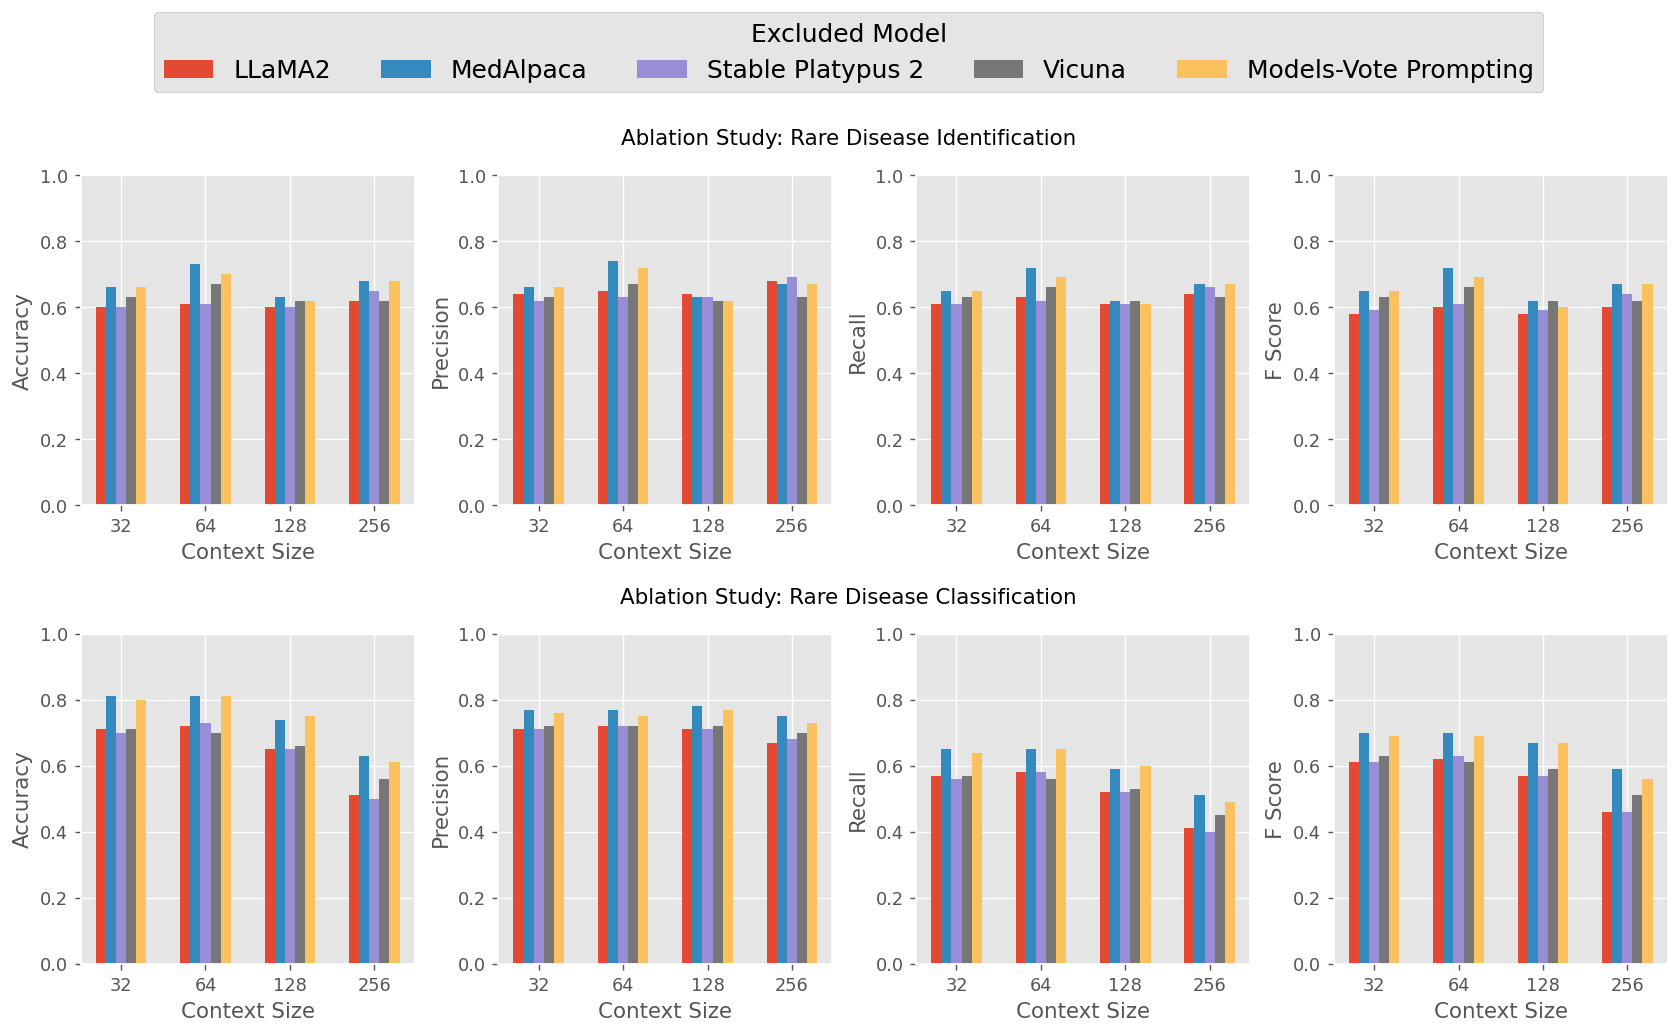
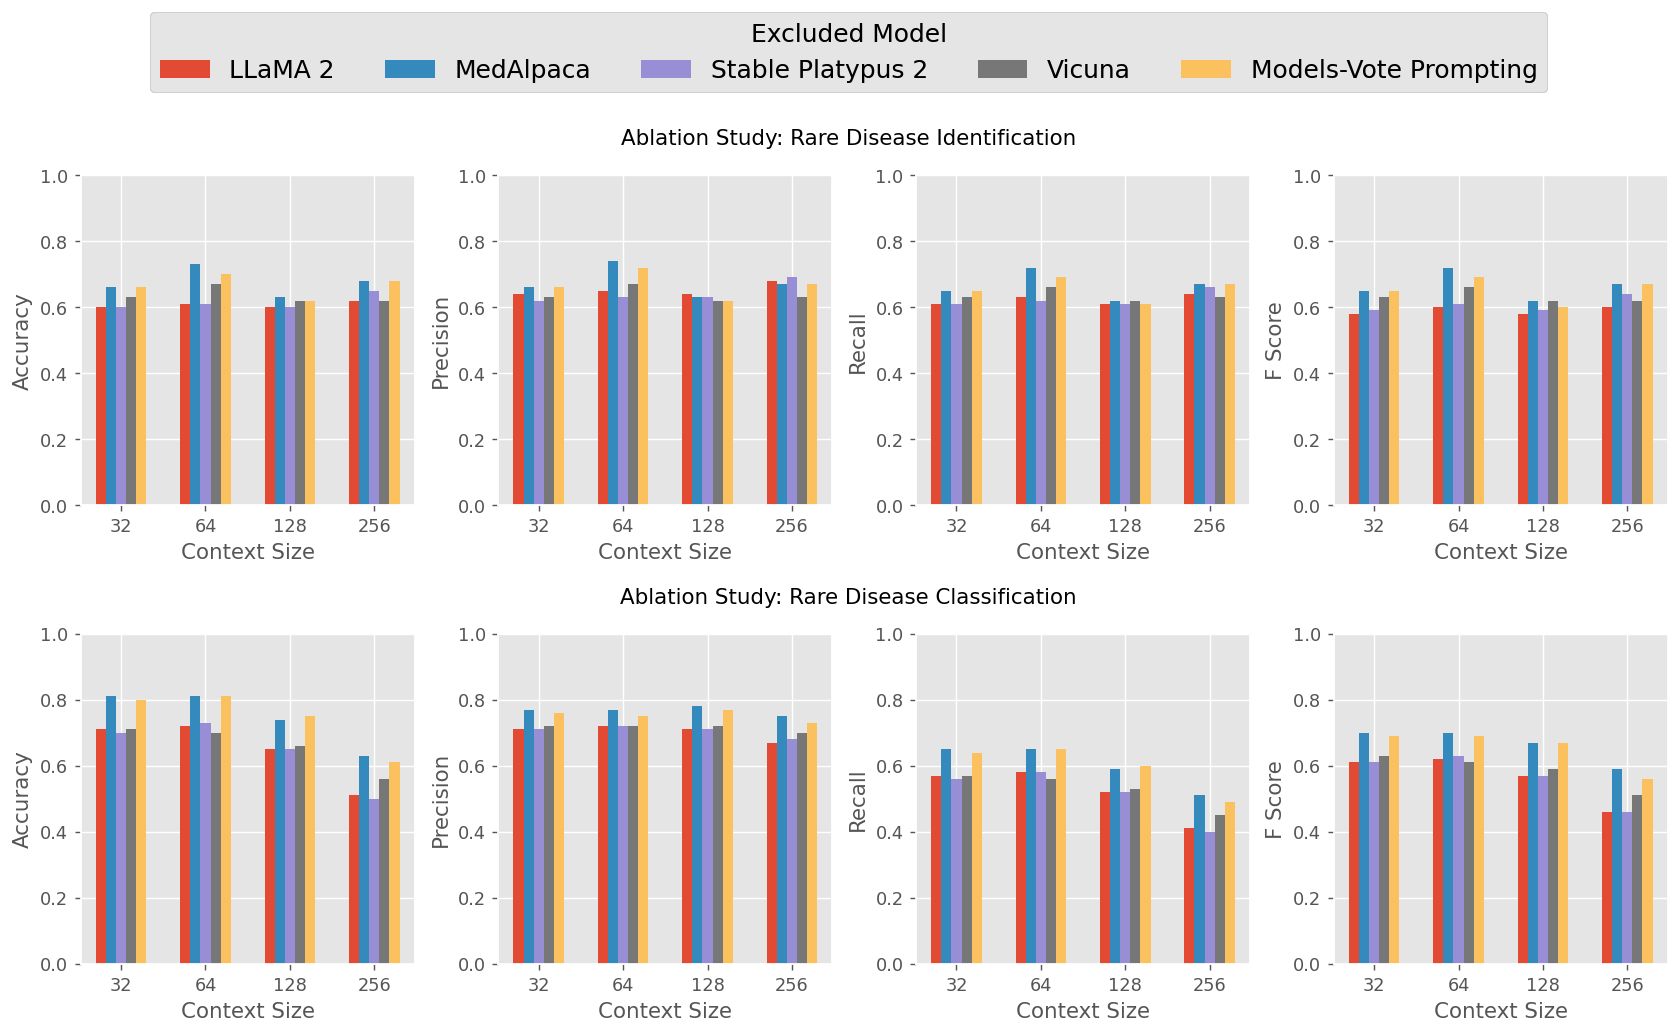
arXiv, ORDO version, argument parser, requirements.txt, .gitattributes
- Added a link to the arXiv preprint

- Made a note (can use both v4.1 and v4.2 of ORDO Ontology)

- Change the description of the argument parser

- Updated requirements.txt

- Added .gitattributes to exclude Jupyter Notebooks from GitHub stats

diff --git a/ablation_and_json_compliance/ablation.py b/ablation_and_json_compliance/ablation.py
@@ -8,28 +8,28 @@ plt.style.use("ggplot")
 
 IDENTIFICATION_DATA: dict[str, dict[str, tuple[float, float, float, float]]] = {
     "Accuracy": {
-        "LLaMA2": (0.60, 0.61, 0.60, 0.62),
+        "LLaMA 2": (0.60, 0.61, 0.60, 0.62),
         "MedAlpaca": (0.66, 0.73, 0.63, 0.68),
         "Stable Platypus 2": (0.60, 0.61, 0.60, 0.65),
         "Vicuna": (0.63, 0.67, 0.62, 0.62),
         "Models-Vote Prompting": (0.66, 0.70, 0.62, 0.68),
     },
     "Precision": {
-        "LLaMA2": (0.64, 0.65, 0.64, 0.68),
+        "LLaMA 2": (0.64, 0.65, 0.64, 0.68),
         "MedAlpaca": (0.66, 0.74, 0.63, 0.67),
         "Stable Platypus 2": (0.62, 0.63, 0.63, 0.69),
         "Vicuna": (0.63, 0.67, 0.62, 0.63),
         "Models-Vote Prompting": (0.66, 0.72, 0.62, 0.67),
     },
     "Recall": {
-        "LLaMA2": (0.61, 0.63, 0.61, 0.64),
+        "LLaMA 2": (0.61, 0.63, 0.61, 0.64),
         "MedAlpaca": (0.65, 0.72, 0.62, 0.67),
         "Stable Platypus 2": (0.61, 0.62, 0.61, 0.66),
         "Vicuna": (0.63, 0.66, 0.62, 0.63),
         "Models-Vote Prompting": (0.65, 0.69, 0.61, 0.67),
     },
     "F Score": {
-        "LLaMA2": (0.58, 0.60, 0.58, 0.60),
+        "LLaMA 2": (0.58, 0.60, 0.58, 0.60),
         "MedAlpaca": (0.65, 0.72, 0.62, 0.67),
         "Stable Platypus 2": (0.59, 0.61, 0.59, 0.64),
         "Vicuna": (0.63, 0.66, 0.62, 0.62),
@@ -39,28 +39,28 @@ IDENTIFICATION_DATA: dict[str, dict[str, tuple[float, float, float, float]]] = {
 
 CLASSIFICATION_DATA: dict[str, dict[str, tuple[float, float, float, float]]] = {
     "Accuracy": {
-        "LLaMA2": (0.71, 0.72, 0.65, 0.51),
+        "LLaMA 2": (0.71, 0.72, 0.65, 0.51),
         "MedAlpaca": (0.81, 0.81, 0.74, 0.63),
         "Stable Platypus 2": (0.70, 0.73, 0.65, 0.50),
         "Vicuna": (0.71, 0.70, 0.66, 0.56),
         "Models-Vote Prompting": (0.80, 0.81, 0.75, 0.61),
     },
     "Precision": {
-        "LLaMA2": (0.71, 0.72, 0.71, 0.67),
+        "LLaMA 2": (0.71, 0.72, 0.71, 0.67),
         "MedAlpaca": (0.77, 0.77, 0.78, 0.75),
         "Stable Platypus 2": (0.71, 0.72, 0.71, 0.68),
         "Vicuna": (0.72, 0.72, 0.72, 0.70),
         "Models-Vote Prompting": (0.76, 0.75, 0.77, 0.73),
     },
     "Recall": {
-        "LLaMA2": (0.57, 0.58, 0.52, 0.41),
+        "LLaMA 2": (0.57, 0.58, 0.52, 0.41),
         "MedAlpaca": (0.65, 0.65, 0.59, 0.51),
         "Stable Platypus 2": (0.56, 0.58, 0.52, 0.40),
         "Vicuna": (0.57, 0.56, 0.53, 0.45),
         "Models-Vote Prompting": (0.64, 0.65, 0.60, 0.49),
     },
     "F Score": {
-        "LLaMA2": (0.61, 0.62, 0.57, 0.46),
+        "LLaMA 2": (0.61, 0.62, 0.57, 0.46),
         "MedAlpaca": (0.70, 0.70, 0.67, 0.59),
         "Stable Platypus 2": (0.61, 0.63, 0.57, 0.46),
         "Vicuna": (0.63, 0.61, 0.59, 0.51),

diff --git a/gen_rare_disease.py b/gen_rare_disease.py
@@ -29,7 +29,7 @@ SELECT ?clsLabel WHERE {
 def parse_args() -> argparse.Namespace:
     """Parses the command line arguments."""
 
-    parser = argparse.ArgumentParser("Pretrained SNN Benchmarking")
+    parser = argparse.ArgumentParser("Rare Diseases: List Generation")
 
     parser.add_argument("--ordo", type=str, help="path to the ORDO ontology file", required=True)
     parser.add_argument("--out", type=str, help="path to write the file", required=True)

diff --git a/README.md b/README.md
@@ -1,3 +1,9 @@
+# llms-vote
+
+Code for the Paper "Large Language Models Vote: Prompting for Rare Disease Identification"
+
+The pre-print is available on [arXiv](https://arxiv.org/abs/2308.12890)
+
 ## Environment
 
 ```console
@@ -9,7 +15,7 @@ $ pip install -r requirements.txt
 
 ## Generating a List of Rare Diseases
 
-Run the following to generate a list of rare diseases using [ORDO ontology][ordo]:
+Run the following to generate a list of rare diseases using [ORDO ontology][ordo] version 4.2:
 
 ```console
 $ mkdir data
